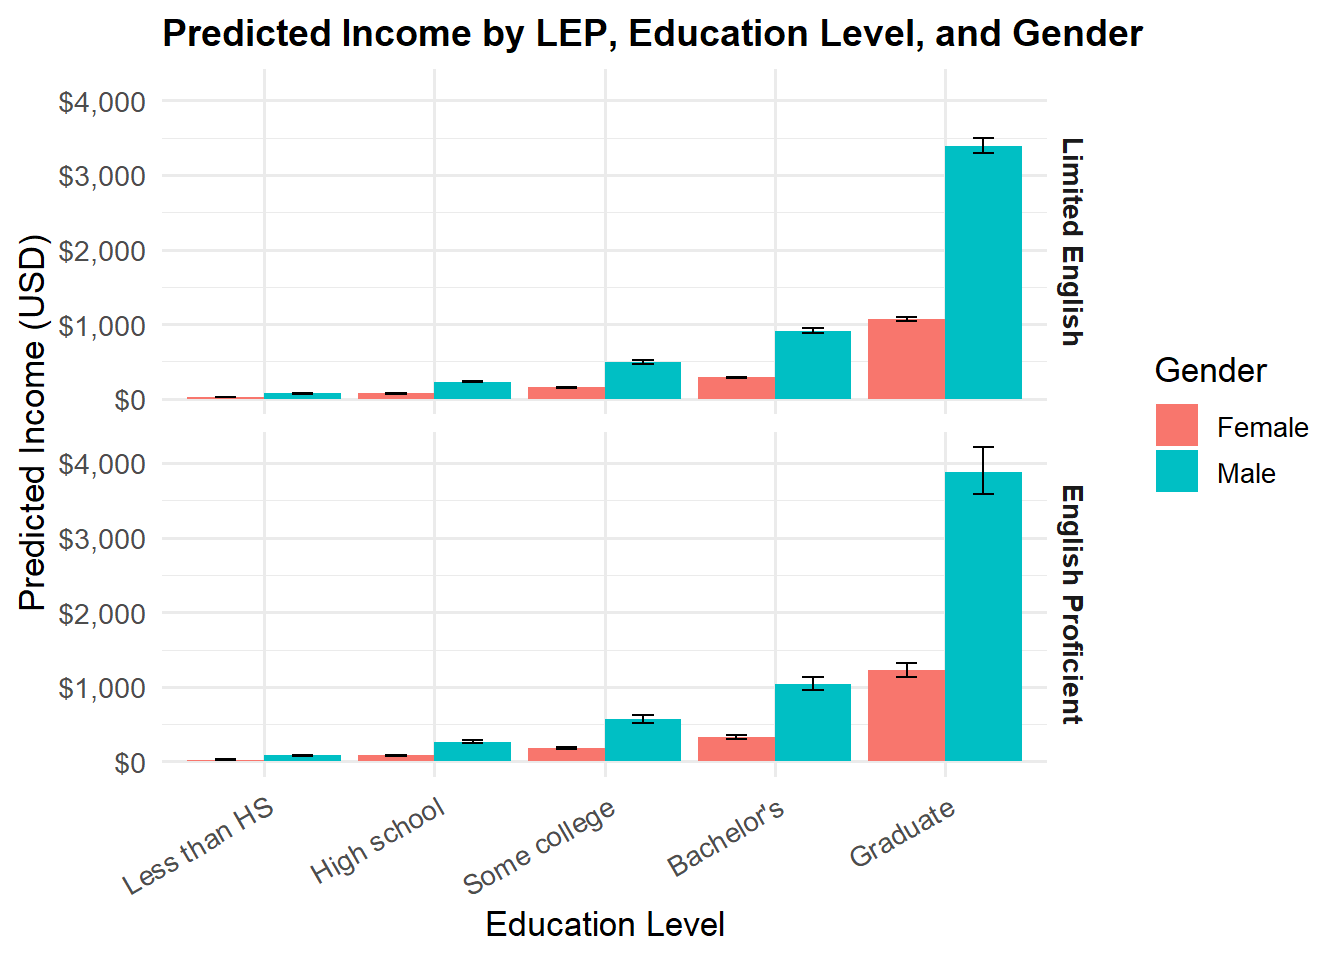
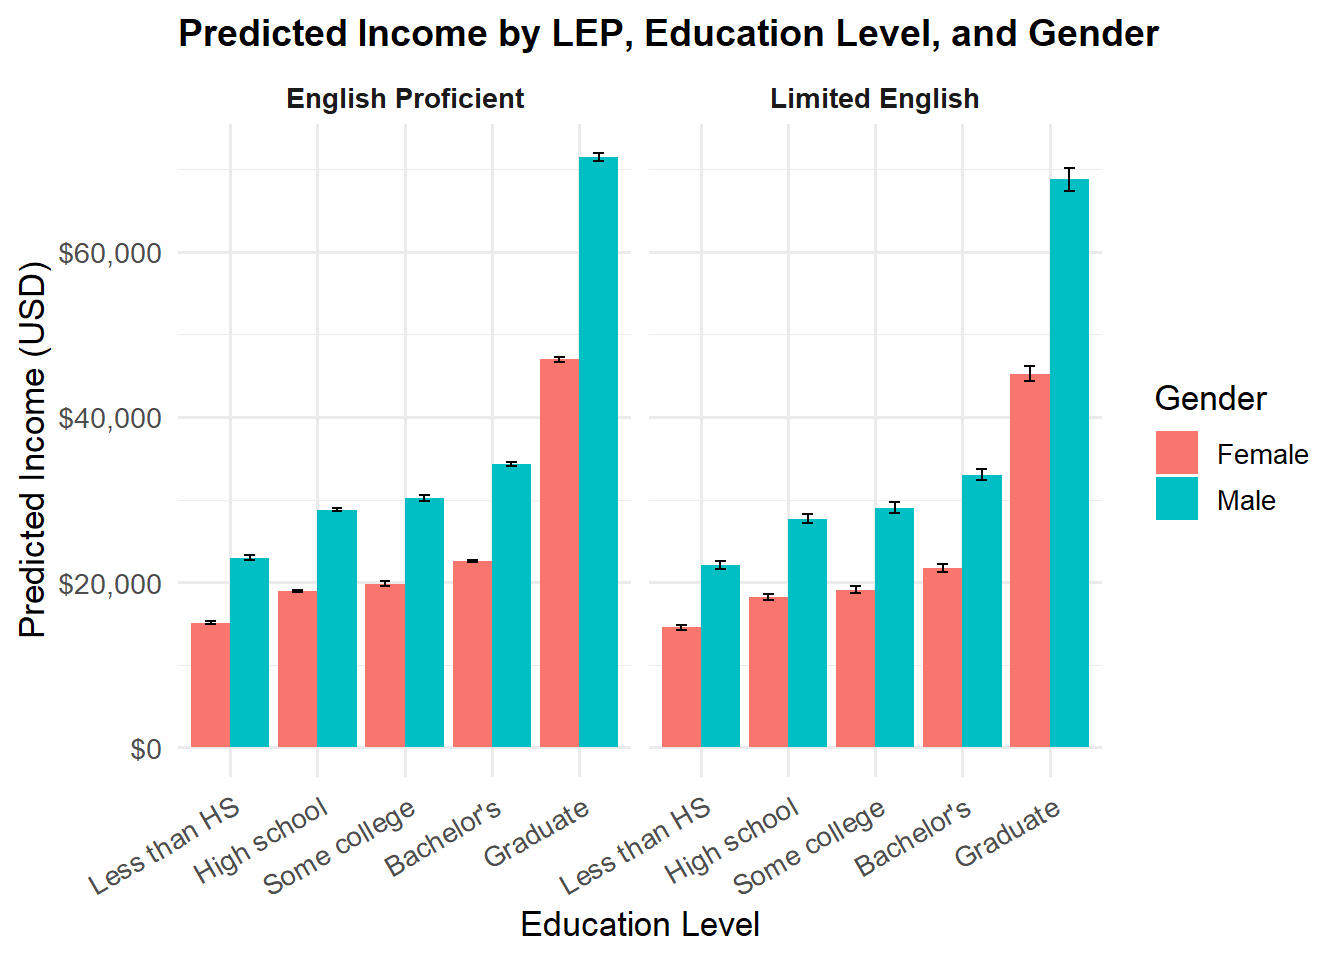
Built site for gh-pages

diff --git a/model.html b/model.html
@@ -197,13 +197,14 @@ window.Quarto = {
 <p>The outcome variable in our model is the natural logarithm of income (<code>log_income</code>), and it is modeled as a linear function of English proficiency (<code>lep</code>), education level (<code>educ_level</code>), and gender (<code>gender</code>). The fitted model is:</p>
 <p><span class="math display">\[
 \begin{aligned}
-\log(\text{income}) =\;&amp; 3.146 \\
-&amp;+ 0.135 \cdot \text{LEP} \\
-&amp;+ 1.139 \cdot \text{HighSchool} \\
-&amp;+ 1.900 \cdot \text{SomeCollege} \\
-&amp;+ 2.515 \cdot \text{Bachelors} \\
-&amp;+ 3.829 \cdot \text{Graduate} \\
-&amp;+ 1.154 \cdot \text{Male}
+\log(\text{income})_i =\;&amp; 9.62 \\
+&amp;- 0.0385 \cdot \text{LEP}_i \\
+&amp;+ 0.227 \cdot \text{HighSchool}_i \\
+&amp;+ 0.274 \cdot \text{SomeCollege}_i \\
+&amp;+ 0.402 \cdot \text{Bachelors}_i \\
+&amp;+ 1.14 \cdot \text{Graduate}_i \\
+&amp;+ 0.419 \cdot \text{Male}_i \\
+&amp;+ \varepsilon_i
 \end{aligned}
 \]</span></p>
 <p>Where:</p>
@@ -239,52 +240,52 @@ window.Quarto = {
 <tbody>
 <tr class="odd">
 <td style="text-align: left;">Intercept</td>
-<td style="text-align: right;">3.150</td>
-<td style="text-align: right;">0.026</td>
+<td style="text-align: right;">9.620</td>
+<td style="text-align: right;">0.007</td>
 <td style="text-align: right;">&lt;0.001</td>
-<td style="text-align: center;">[3.10, 3.20]</td>
+<td style="text-align: center;">[9.61, 9.64]</td>
 </tr>
 <tr class="even">
 <td style="text-align: left; background-color: rgba(255, 255, 204, 255) !important;">Limited English Proficiency</td>
-<td style="text-align: right; background-color: rgba(255, 255, 204, 255) !important;">0.135</td>
-<td style="text-align: right; background-color: rgba(255, 255, 204, 255) !important;">0.039</td>
+<td style="text-align: right; background-color: rgba(255, 255, 204, 255) !important;">-0.038</td>
+<td style="text-align: right; background-color: rgba(255, 255, 204, 255) !important;">0.010</td>
 <td style="text-align: right; background-color: rgba(255, 255, 204, 255) !important;">&lt;0.001</td>
-<td style="text-align: center; background-color: rgba(255, 255, 204, 255) !important;">[0.06, 0.21]</td>
+<td style="text-align: center; background-color: rgba(255, 255, 204, 255) !important;">[-0.058, -0.019]</td>
 </tr>
 <tr class="odd">
 <td style="text-align: left;">High School</td>
-<td style="text-align: right;">1.140</td>
-<td style="text-align: right;">0.028</td>
+<td style="text-align: right;">0.227</td>
+<td style="text-align: right;">0.007</td>
 <td style="text-align: right;">&lt;0.001</td>
-<td style="text-align: center;">[1.08, 1.19]</td>
+<td style="text-align: center;">[0.212, 0.241]</td>
 </tr>
 <tr class="even">
 <td style="text-align: left;">Some College</td>
-<td style="text-align: right;">1.900</td>
-<td style="text-align: right;">0.037</td>
+<td style="text-align: right;">0.274</td>
+<td style="text-align: right;">0.009</td>
 <td style="text-align: right;">&lt;0.001</td>
-<td style="text-align: center;">[1.83, 1.97]</td>
+<td style="text-align: center;">[0.256, 0.292]</td>
 </tr>
 <tr class="odd">
 <td style="text-align: left;">Bachelor's Degree</td>
-<td style="text-align: right;">2.510</td>
-<td style="text-align: right;">0.029</td>
+<td style="text-align: right;">0.402</td>
+<td style="text-align: right;">0.008</td>
 <td style="text-align: right;">&lt;0.001</td>
-<td style="text-align: center;">[2.46, 2.57]</td>
+<td style="text-align: center;">[0.387, 0.416]</td>
 </tr>
 <tr class="even">
 <td style="text-align: left;">Graduate Degree</td>
-<td style="text-align: right;">3.830</td>
-<td style="text-align: right;">0.027</td>
+<td style="text-align: right;">1.140</td>
+<td style="text-align: right;">0.007</td>
 <td style="text-align: right;">&lt;0.001</td>
-<td style="text-align: center;">[3.78, 3.88]</td>
+<td style="text-align: center;">[1.12, 1.15]</td>
 </tr>
 <tr class="odd">
 <td style="text-align: left;">Male Gender</td>
-<td style="text-align: right;">1.150</td>
-<td style="text-align: right;">0.015</td>
+<td style="text-align: right;">0.419</td>
+<td style="text-align: right;">0.003</td>
 <td style="text-align: right;">&lt;0.001</td>
-<td style="text-align: center;">[1.13, 1.18]</td>
+<td style="text-align: center;">[0.413, 0.426]</td>
 </tr>
 </tbody><tfoot>
 <tr class="odd">

diff --git a/index.html b/index.html
@@ -161,7 +161,7 @@ ul.task-list li input[type="checkbox"] {
 </div>
 </div>
 </div>
-<p>Language proficiency is one of the key requirements in almost every job posting, and being proficient in a language can open new doors for an individual. Using a sample of data drawn from the American Community Surveys (U.S. Census) of 2021-2023, I seek to examine the effect of Limited English proficiency on a person’s income in the USA. I used R to look at the insights into how Limited English Proficiency (LEP) effects a person’s wage when controling education level and gender. I modeled a person’s income, as a linear function of her English profiency, education level, and gender. Predicted income increases substantially with education, but is significantly shaped by English proficiency and gender—English Proficient males with graduate degrees earn up to $4,000, while Limited English females with the same education earn less than $1,200, revealing compounding disparities across language and gender lines.</p>
+<p>Language proficiency is one of the key requirements in almost every job posting, and being proficient in a language can open new doors for an individual. Using a sample of data drawn from the American Community Surveys (U.S. Census) of 2021-2023, I seek to examine the effect of Limited English proficiency on a person’s income in the USA. I used R to look at the insights into how Limited English Proficiency (LEP) effects a person’s wage when controling education level and gender. I modeled a person’s income, as a linear function of her English profiency, education level, and gender. Across all education levels, males earn 20–50% more than females, with the largest gender and language-based income gaps appearing at the graduate level where English Proficient males earn over $70,000, nearly 50% more than their female counterparts.</p>
 
 
 

diff --git a/insights.html b/insights.html
@@ -161,6 +161,7 @@ ul.task-list li input[type="checkbox"] {
 </div>
 </div>
 </div>
+<p>This income distribution plot demonstrates clear education and gender premiums, with graduate degree holders earning substantially more than those with less education and males consistently out-earning females across all groups. Limited English Proficiency appears to have a modest negative impact on income, particularly at higher education levels, while significant income inequality is evident through extensive high-income outliers reaching $750,000+ across all subgroups.</p>
 <div class="cell">
 <div class="cell-output-display">
 <div>
@@ -170,6 +171,7 @@ ul.task-list li input[type="checkbox"] {
 </div>
 </div>
 </div>
+<p>This education distribution plot reveals a stark educational divide between LEP groups, with Limited English Proficiency individuals heavily concentrated in lower education levels (nearly 50% have less than high school education) while English proficient individuals are more evenly distributed across education levels and comprise the majority of those with graduate degrees (around 40%).</p>
 
 
 
